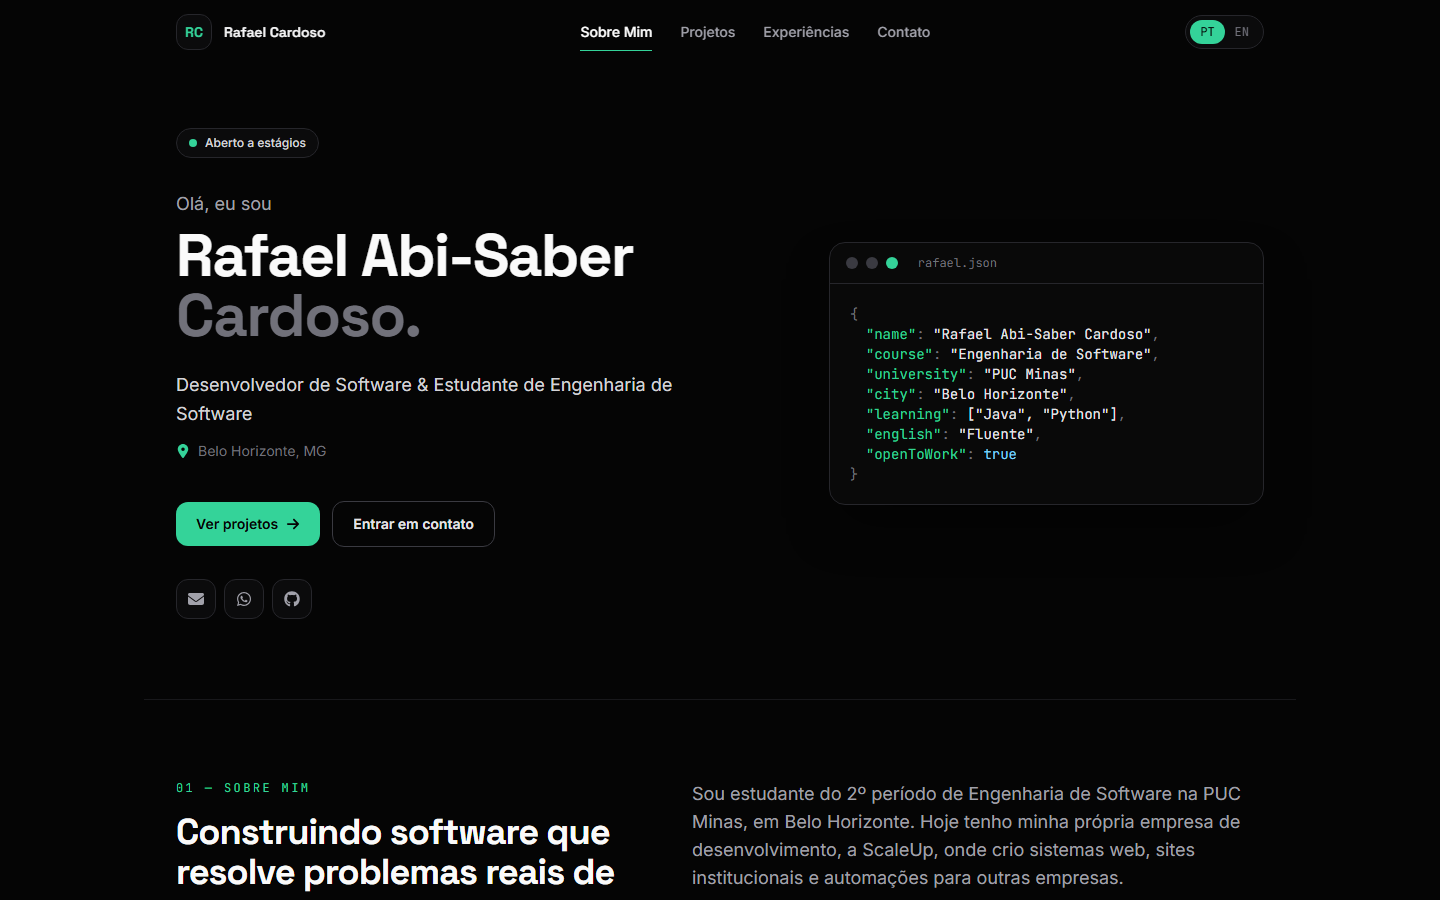
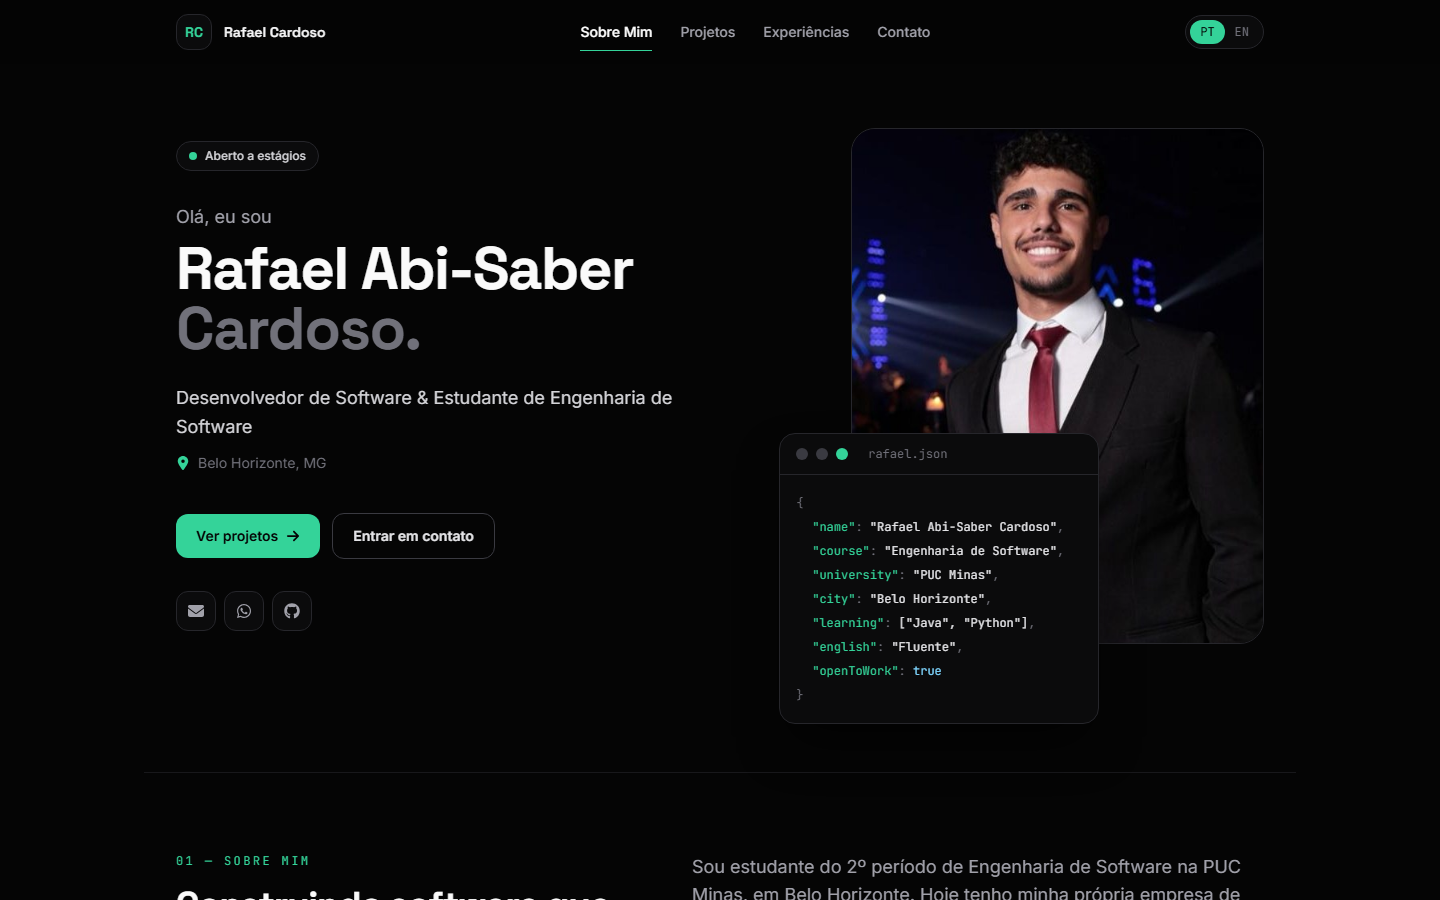
feat: adiciona foto de perfil e links dos repositórios dos projetos

diff --git a/src/pages/About.jsx b/src/pages/About.jsx
@@ -52,7 +52,7 @@ function ProfileCard() {
       initial={{ opacity: 0, y: 30, rotate: 1.5 }}
       animate={{ opacity: 1, y: 0, rotate: 0 }}
       transition={{ duration: 0.8, delay: 0.25, ease: [0.22, 1, 0.36, 1] }}
-      className="card relative w-full overflow-hidden shadow-2xl shadow-black/60"
+      className="card relative w-full overflow-hidden bg-ink-900 shadow-2xl shadow-black/70"
     >
       <div className="flex items-center gap-2 border-b border-ink-700 px-4 py-3">
         <span className="h-3 w-3 rounded-full bg-ink-600" />
@@ -60,7 +60,7 @@ function ProfileCard() {
         <span className="h-3 w-3 rounded-full bg-accent" />
         <span className="ml-3 font-mono text-xs text-zinc-500">rafael.json</span>
       </div>
-      <pre className="overflow-x-auto p-5 font-mono text-[13px] leading-7 sm:text-sm">
+      <pre className="overflow-x-auto p-4 font-mono text-[12px] leading-6">
         <span className="text-zinc-500">{'{'}</span>
         {lines.map(([key, value], index) => (
           <div key={key} className="pl-4">
@@ -81,7 +81,7 @@ export default function About() {
 
   return (
     <>
-      <section className="container-page grid items-center gap-12 pb-20 lg:grid-cols-[1.15fr_0.85fr] lg:gap-16">
+      <section className="container-page grid items-center gap-12 pb-32 lg:grid-cols-[1.1fr_0.9fr] lg:gap-16">
         <div>
           <motion.div
             initial={{ opacity: 0, y: 16 }}
@@ -149,7 +149,25 @@ export default function About() {
             <SocialLinks compact />
           </motion.div>
         </div>
-        <ProfileCard />
+        <div className="relative mx-auto w-full max-w-md pb-4 lg:max-w-none lg:pb-0">
+          <motion.div
+            initial={{ opacity: 0, scale: 0.97 }}
+            animate={{ opacity: 1, scale: 1 }}
+            transition={{ duration: 0.8, ease: [0.22, 1, 0.36, 1] }}
+            className="aspect-[4/5] overflow-hidden rounded-3xl border border-ink-700 bg-ink-900 lg:ml-12"
+          >
+            <img
+              src="/profile.jpg"
+              alt="Rafael Abi-Saber Cardoso"
+              className="h-full w-full object-cover object-top"
+              width="520"
+              height="641"
+            />
+          </motion.div>
+          <div className="relative -mt-20 px-4 sm:px-10 lg:absolute lg:-bottom-20 lg:-left-6 lg:mt-0 lg:w-[320px] lg:px-0">
+            <ProfileCard />
+          </div>
+        </div>
       </section>
 
       <section id="sobre" className="container-page border-t border-ink-800 pt-20">

diff --git a/src/data/projects.js b/src/data/projects.js
@@ -10,7 +10,7 @@ export const projects = [
     },
     tech: ['Python', 'Playwright', 'Asyncio', 'PowerShell'],
     image: '/projects/automacoes.gif',
-    repo: 'https://github.com/RafaelCardoso25',
+    repo: null,
     live: null,
   },
   {
@@ -44,16 +44,16 @@ export const projects = [
   {
     id: 'cotacompara',
     name: { pt: 'CotaCompara', en: 'CotaCompara' },
-    date: '2026-08-01',
-    period: { pt: 'Ago 2026', en: 'Aug 2026' },
+    date: '2026-06-07',
+    period: { pt: 'Jun 2026', en: 'Jun 2026' },
     description: {
       pt: 'Sistema de cotação que recebe orçamentos de diferentes fornecedores, identifica o produto mais barato em cada um e mostra quanto você vai economizar. Feito para quem compra de vários fornecedores e quer gastar o mínimo possível.',
       en: 'A quotation system that reads quotes from different suppliers, finds the cheapest product in each one and shows how much you will save. Built for businesses that buy from many suppliers and want to spend as little as possible.',
     },
     tech: ['React', 'Vite', 'Node.js', 'Express', 'Supabase', 'Render'],
     image: '/projects/cotacompara.gif',
-    repo: 'https://github.com/RafaelCardoso25',
-    live: null,
+    repo: 'https://github.com/RafaelCardoso25/comparacao-system',
+    live: 'https://cotacao-system.vercel.app',
   },
   {
     id: 'sites-empresas',
@@ -66,7 +66,7 @@ export const projects = [
     },
     tech: ['HTML', 'CSS', 'JavaScript', 'PHP', 'Vercel'],
     image: '/projects/sites.gif',
-    repo: 'https://github.com/RafaelCardoso25',
+    repo: null,
     live: null,
   },
 ]

diff --git a/src/components/ProjectCard.jsx b/src/components/ProjectCard.jsx
@@ -1,5 +1,5 @@
 import { motion } from 'framer-motion'
-import { FaArrowUpRightFromSquare, FaGithub } from 'react-icons/fa6'
+import { FaArrowUpRightFromSquare, FaGithub, FaLock } from 'react-icons/fa6'
 import { useLanguage } from '../i18n/LanguageContext.jsx'
 
 export default function ProjectCard({ project, index }) {
@@ -53,9 +53,15 @@ export default function ProjectCard({ project, index }) {
             ))}
           </ul>
           <div className="mt-6 flex flex-wrap gap-3">
-            <a href={project.repo} target="_blank" rel="noreferrer" className="btn-ghost px-4 py-2">
-              <FaGithub /> {t.projects.repo}
-            </a>
+            {project.repo ? (
+              <a href={project.repo} target="_blank" rel="noreferrer" className="btn-ghost px-4 py-2">
+                <FaGithub /> {t.projects.repo}
+              </a>
+            ) : (
+              <span className="inline-flex items-center gap-2 rounded-xl border border-dashed border-ink-700 px-4 py-2 text-sm text-zinc-500">
+                <FaLock /> {t.projects.private}
+              </span>
+            )}
             {project.live && (
               <a href={project.live} target="_blank" rel="noreferrer" className="btn-primary px-4 py-2">
                 <FaArrowUpRightFromSquare /> {t.projects.live}

diff --git a/src/i18n/translations.js b/src/i18n/translations.js
@@ -54,6 +54,7 @@ export const translations = {
       newest: 'Mais recente primeiro',
       repo: 'Repositório',
       live: 'Ver online',
+      private: 'Código privado',
       tech: 'Tecnologias',
       empty: 'Nenhum projeto usa essa tecnologia.',
       count: (n) => `${n} ${n === 1 ? 'projeto' : 'projetos'}`,
@@ -160,6 +161,7 @@ export const translations = {
       newest: 'Newest first',
       repo: 'Repository',
       live: 'Live demo',
+      private: 'Private code',
       tech: 'Technologies',
       empty: 'No project uses this technology.',
       count: (n) => `${n} ${n === 1 ? 'project' : 'projects'}`,
